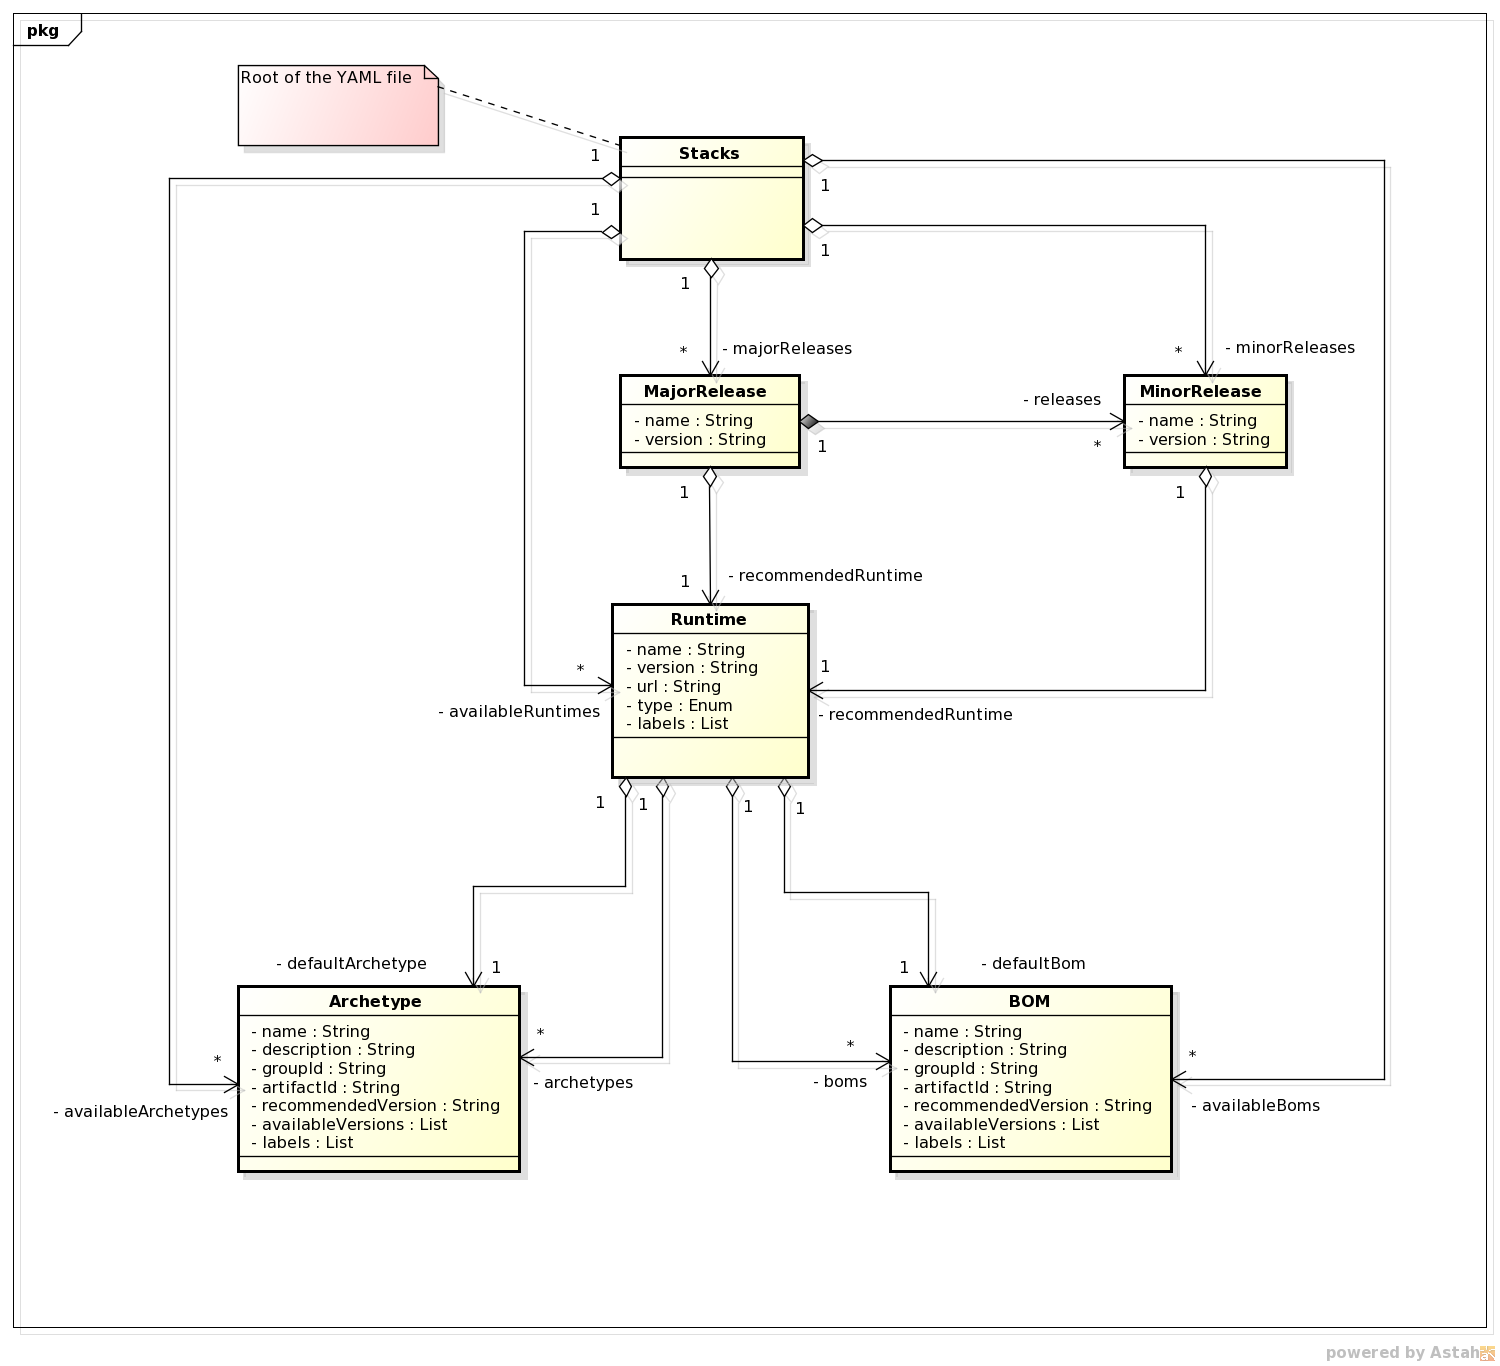
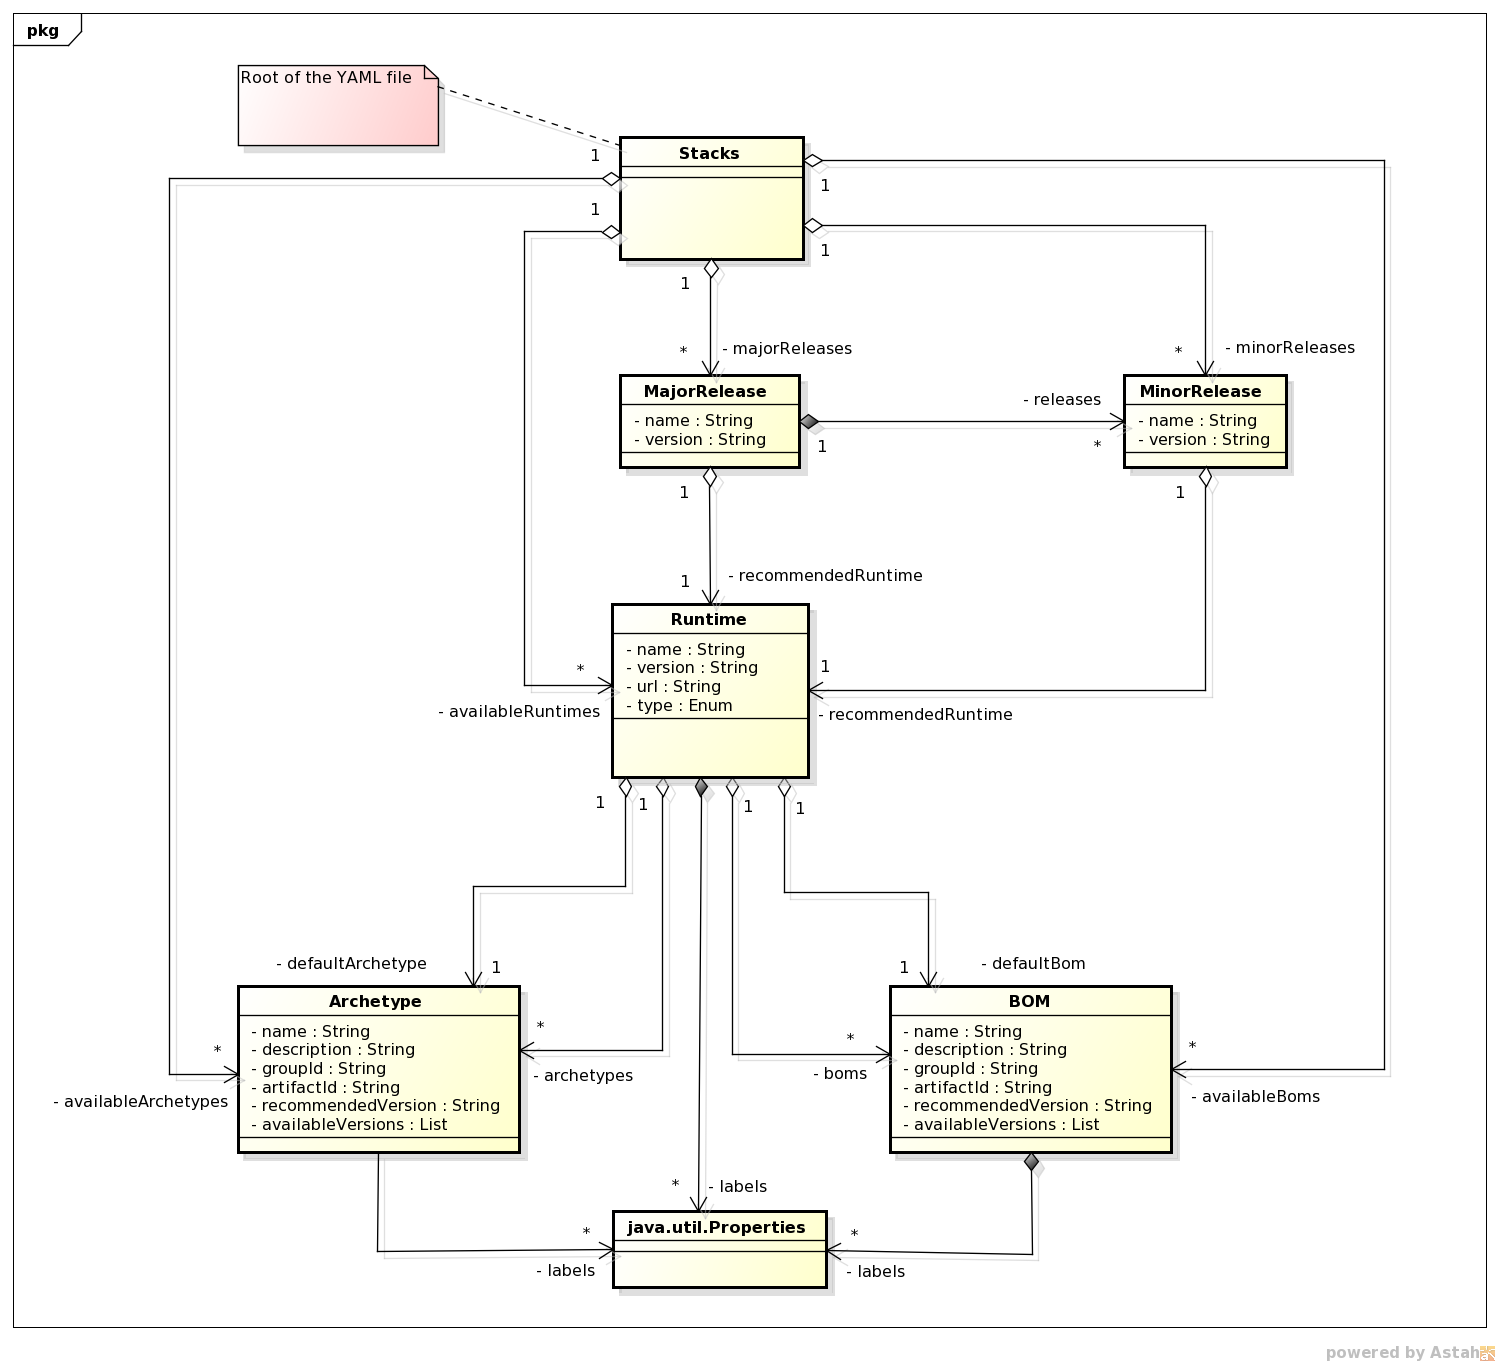
Changed File format labels is now List<Properties

diff --git a/Parser.java b/Parser.java
@@ -24,6 +24,7 @@ package org.jboss.stack.parser;
 import java.io.InputStream;
 import java.util.ArrayList;
 import java.util.List;
+import java.util.Properties;
 
 import org.yaml.snakeyaml.TypeDescription;
 import org.yaml.snakeyaml.Yaml;
@@ -88,7 +89,7 @@ public class Parser {
 
         private List<String> availableVersions = new ArrayList<String>();
 
-        private List<String> labels = new ArrayList<String>();
+        private List<Properties> labels = new ArrayList<Properties>();
 
         public String getName() {
             return name;
@@ -140,11 +141,11 @@ public class Parser {
             this.availableVersions = availableVersions;
         }
 
-        public List<String> getLabels() {
+        public List<Properties> getLabels() {
             return labels;
         }
 
-        public void setLabels(List<String> labels) {
+        public void setLabels(List<Properties> labels) {
             this.labels = labels;
         }
 
@@ -218,7 +219,7 @@ public class Parser {
         private String version;
         private String url;
         private RuntimeType type;
-        private List<String> labels = new ArrayList<String>();
+        private List<Properties> labels = new ArrayList<Properties>();
 
         private List<Bom> boms = new ArrayList<Bom>();
         private Bom defaultBom;
@@ -258,11 +259,11 @@ public class Parser {
             this.type = type;
         }
 
-        public List<String> getLabels() {
+        public List<Properties> getLabels() {
             return labels;
         }
 
-        public void setLabels(List<String> labels) {
+        public void setLabels(List<Properties> labels) {
             this.labels = labels;
         }
 
@@ -391,7 +392,7 @@ public class Parser {
 
         private List<String> availableVersions = new ArrayList<String>();
 
-        private List<String> labels = new ArrayList<String>();
+        private List<Properties> labels = new ArrayList<Properties>();
 
         public String getName() {
             return name;
@@ -441,11 +442,11 @@ public class Parser {
             this.availableVersions = availableVersions;
         }
 
-        public List<String> getLabels() {
+        public List<Properties> getLabels() {
             return labels;
         }
 
-        public void setLabels(List<String> labels) {
+        public void setLabels(List<Properties> labels) {
             this.labels = labels;
         }
     }
